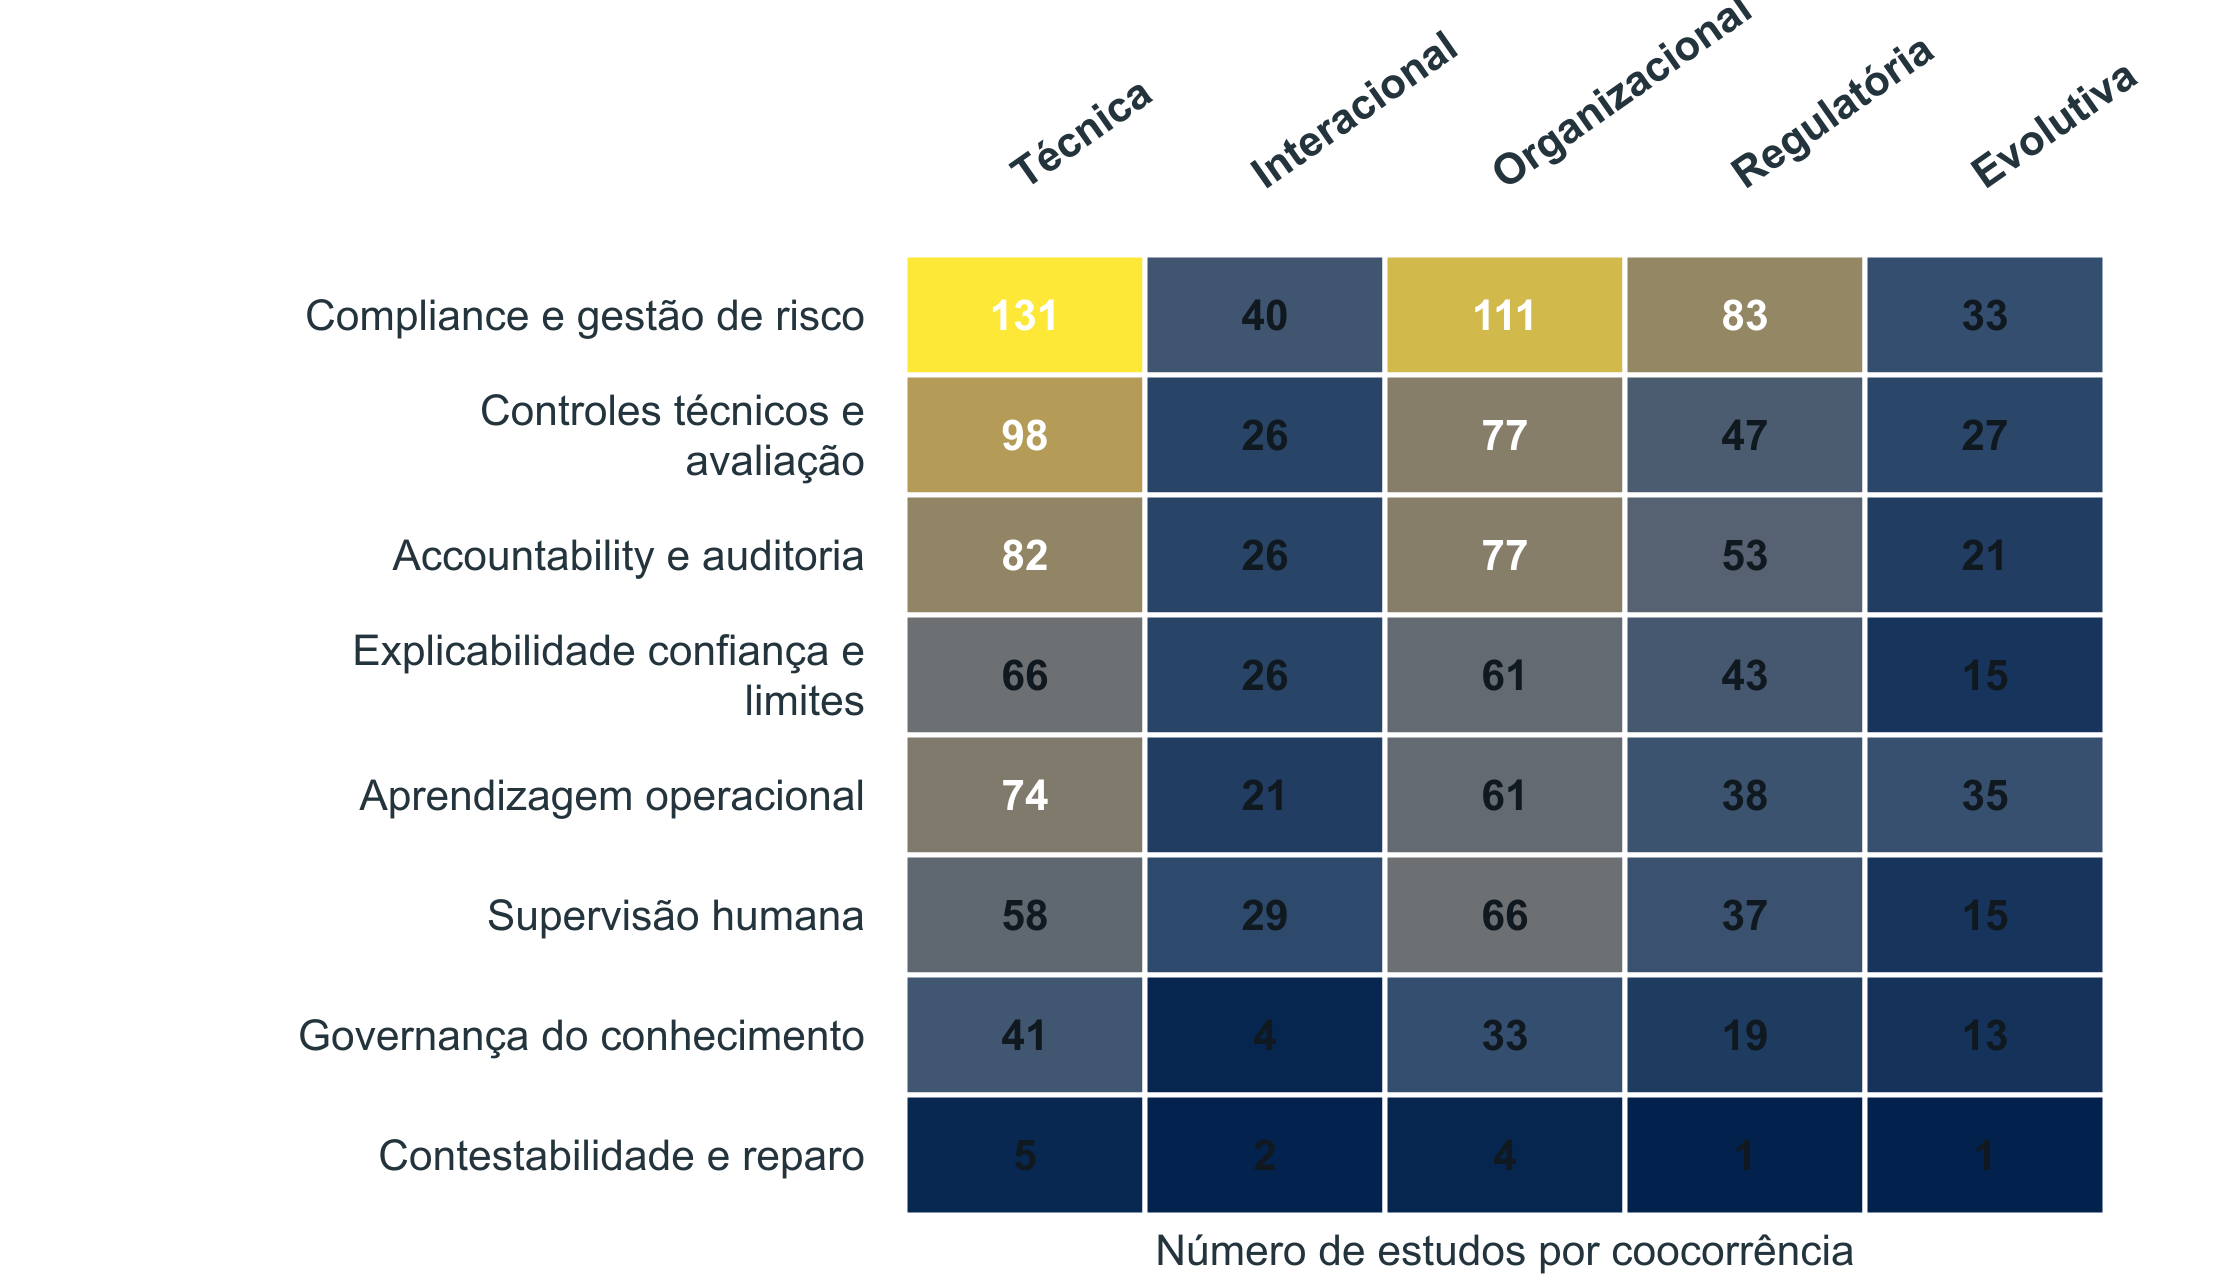
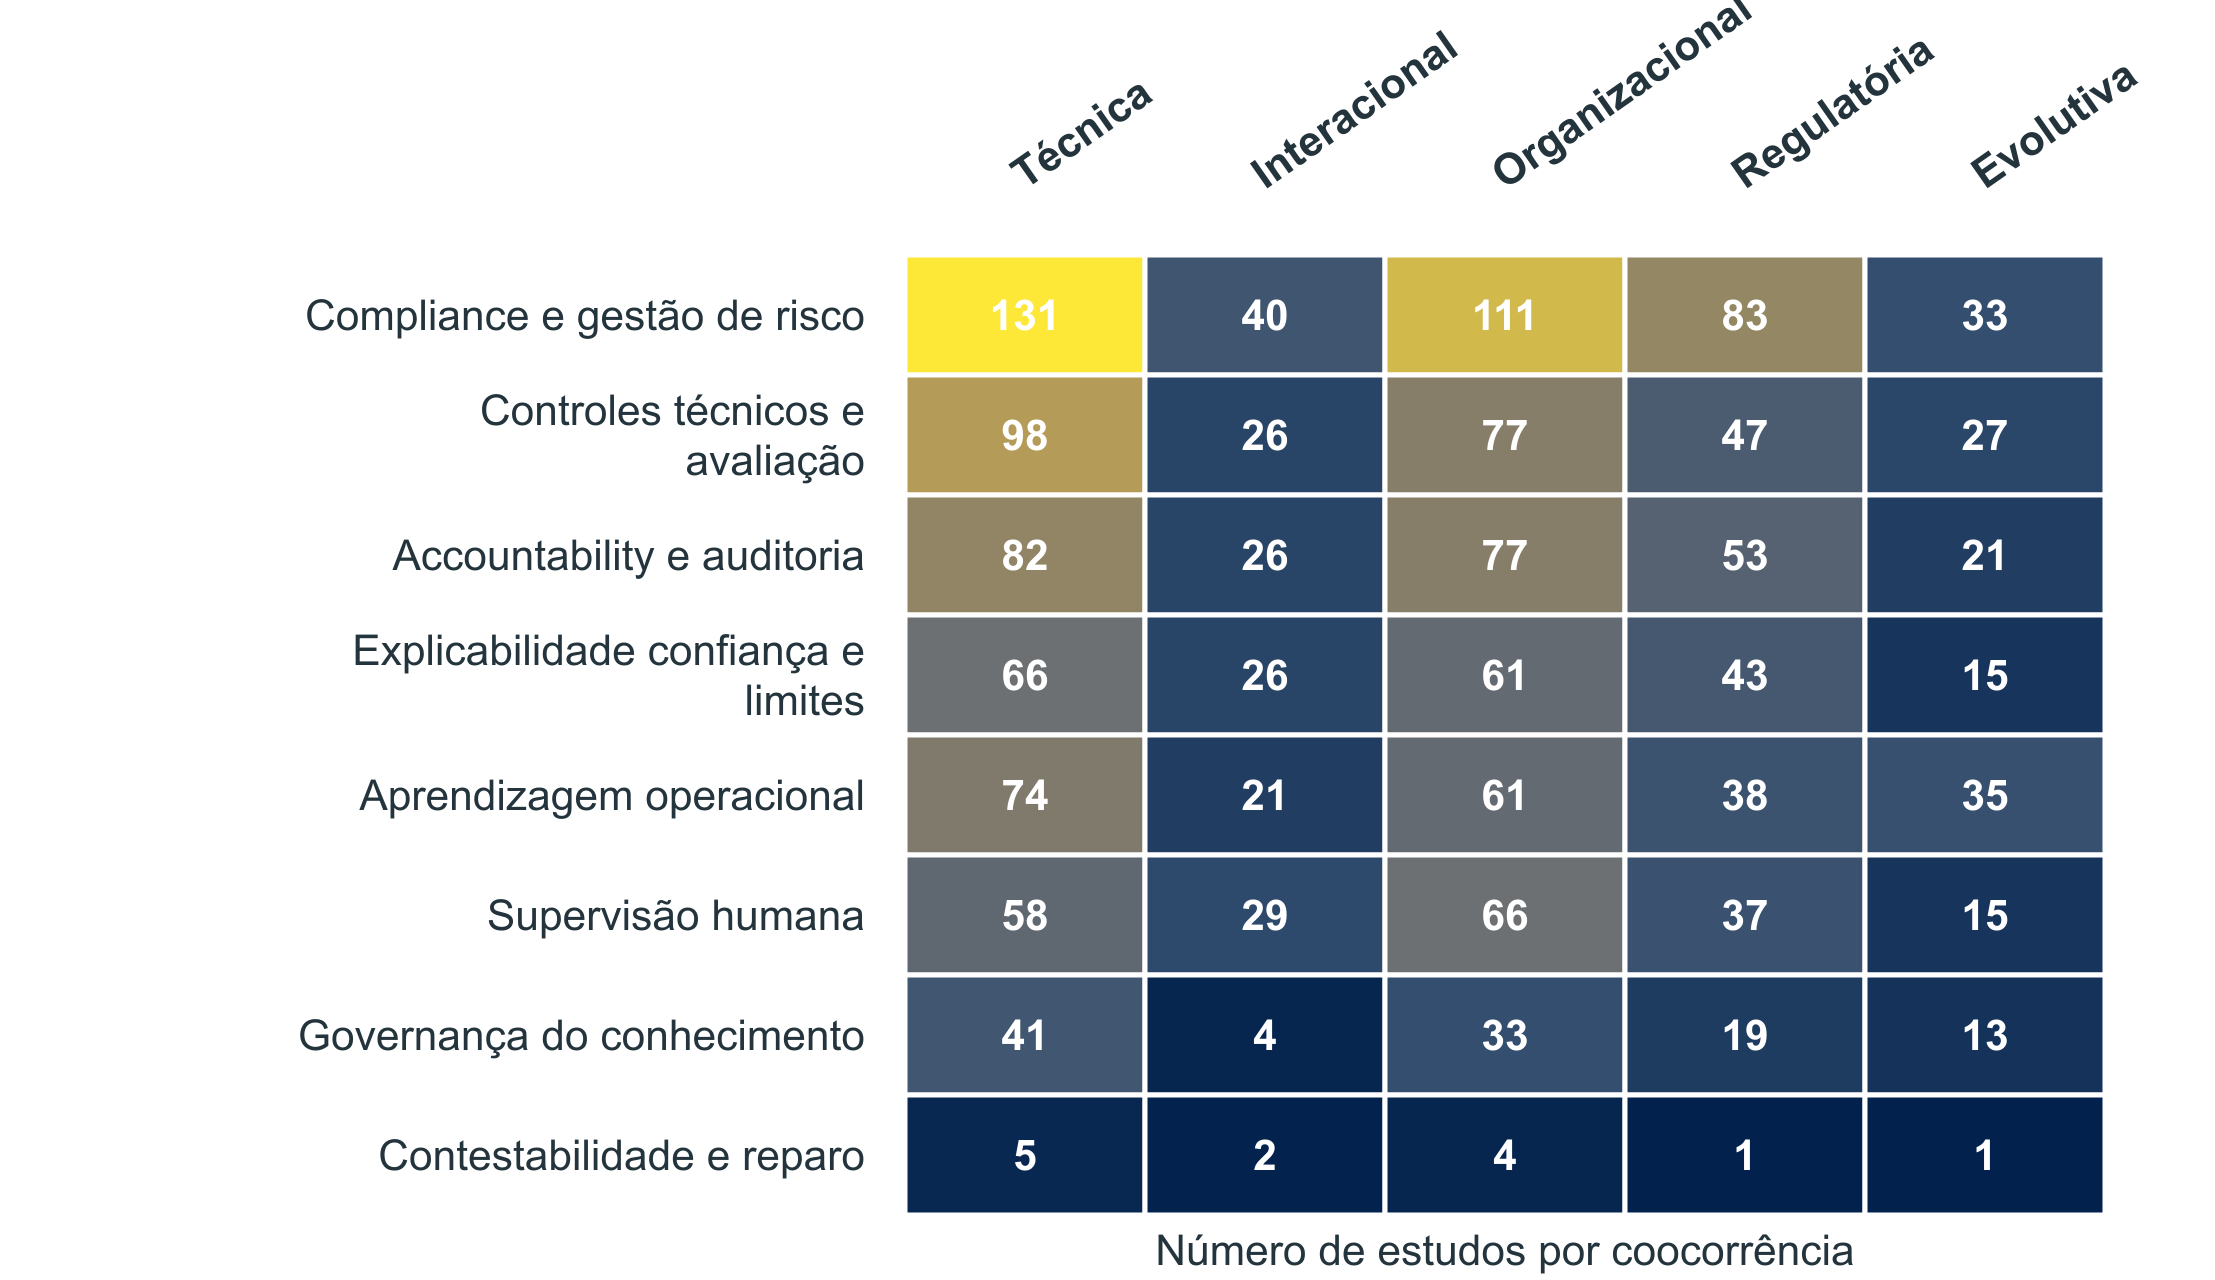
artigo: usar rótulos brancos no gráfico 6

diff --git a/Documentacao_do_projeto/project/ARTIFACT_INVENTORY_V2.md b/Documentacao_do_projeto/project/ARTIFACT_INVENTORY_V2.md
@@ -4,20 +4,27 @@
 
 | Artefato | Função | SHA-256 |
 |---|---|---|
[6 lines of base64/hex data omitted]
 
 ## Recursos visuais reprodutíveis
 
 | Artefato | Função | SHA-256 |
 |---|---|---|
[4 lines of base64/hex data omitted]
 | `Recursos_do_artigo/v2/fontes_vetoriais/` | Sete fontes SVG versionadas | ver hashes individuais no histórico Git |
 | `Recursos_do_artigo/v2/imagens/` | Sete PNGs efetivamente incorporados, 359–361 dpi | ver hashes individuais no histórico Git |
+
+### Ajuste de contraste do Gráfico 6
+
+| Artefato | SHA-256 |
+|---|---|
[2 lines of base64/hex data omitted]
 
 ## Rastreabilidade metodológica
 
@@ -35,6 +42,7 @@
 - Marco metodológico original: `article-v2`, mantido sem movimentação.
 - Marco desta entrega: `article-v2-final`.
 - Marco visual, sem movimentar as tags anteriores: `article-v2-final-visual`.
+- Marco do ajuste de contraste: `article-v2-final-visual-white-labels`.
 - Commit de conteúdo científico e artefatos: `11c06c2`.
 - Commit do redesign visual e dos recursos reprodutíveis: `2325db1`.
 

diff --git a/Documentacao_do_projeto/project/CHANGELOG.md b/Documentacao_do_projeto/project/CHANGELOG.md
@@ -94,3 +94,11 @@
 - Teste em escala de cinza confirmou distinção por luminosidade, forma e rótulos, sem dependência exclusiva de cor.
 - Todas as 15 páginas foram inspecionadas; não há cortes, sobreposições, tabelas quebradas ou paginação incorreta.
 - O texto científico foi preservado, exceto por quatro descrições estritamente necessárias para refletir os novos formatos dos Gráficos 4 e 5.
+
+## v2 final — contraste dos rótulos do Gráfico 6 (2026-08-19)
+
+- Alterada exclusivamente a cor dos 40 valores internos do mapa de calor para branco.
+- Preservados dados, escala cromática, dimensões, texto científico e todos os demais recursos visuais.
+- Regeneradas as fontes SVG e PNG do Gráfico 6 e atualizados somente o DOCX e o PDF finais.
+- Confirmadas 15 páginas, sete imagens com texto alternativo e auditoria de acessibilidade sem achados.
+- A comparação visual com o marco anterior mostrou alteração somente na página 9.

diff --git a/Documentacao_do_projeto/project/DECISION_LOG_V2.md b/Documentacao_do_projeto/project/DECISION_LOG_V2.md
@@ -35,3 +35,9 @@
 - Manter o limite editorial de 15–16 páginas; melhorar o fluxo de figuras e ampliar somente a tipografia das referências, sem reduzir corpo, legendas ou tabelas abaixo dos limites de legibilidade.
 - Aceitar quatro ajustes textuais estritamente semânticos para substituir referências a “área”, “bolha” e “treemap” pelos novos formatos visuais; nenhuma afirmação científica, contagem ou conclusão foi alterada.
 - Preservar a tag `article-v2-final` no estado anterior ao redesign e criar `article-v2-final-visual` como novo marco.
+
+## 2026-08-19 — contraste numérico do Gráfico 6
+
+- Atender ao ajuste visual solicitado aplicando branco a todos os valores internos do mapa de calor.
+- Não alterar a paleta, os valores, a geometria ou os rótulos externos do gráfico.
+- Preservar `article-v2-final-visual` como marco anterior e registrar a correção em uma nova tag descritiva, sem criar v3.
